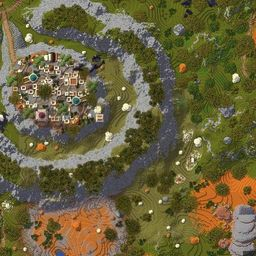
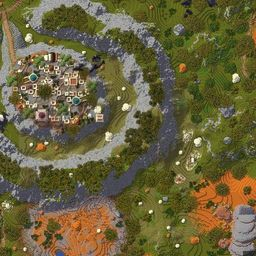
第 2 層探索地圖：被蓋掉的區塊有 152 個改用站長 pre_breches 資料夾的真實 JourneyMap 圖
Claude-Session: https://claude.ai/code/session_01TCxb7TWhtNUuHK8FFaNG7L

diff --git a/changelog.js b/changelog.js
@@ -18,7 +18,7 @@ window.SAO_CHANGELOG=[
   "第 3 層 9 位 NPC 的位置改用站長截圖推算（煉金術士、符文工匠、工具商人等，新增保險箱、拍賣場和 3 位沒有名牌的工匠），第 2 層符文項鍊工匠移到凱順聖所",
   "第 2 層商店賣的神祕護身符（等級 14、深灰色鏈子）和第 1 層的（等級 10、暗紅色鏈子）圖示不同，分成兩件；精通卷軸、重置卷軸的說明改成遊戲中文（精通＝重置技能點數、重置＝重置屬性點數）",
   "名稱裡有第 1 層首領或地下城的裝備（Kazor、墮落者、死神），取得樓層算第 1 層，不再出現在第 2、3 層",
-  "第 2 層探索地圖：烏爾巴斯東南方一塊被別的世界蓋掉的地形（茂密森林和黑色區域），改成 wiki 第 2 層地圖的同一塊",
+  "第 2 層探索地圖：烏爾巴斯東南方一塊被別的世界蓋掉的地形（茂密森林和黑色區域），改回第 2 層的地形（約三分之一用站長另一個資料夾裡的探索地圖，其餘暫用 wiki 地圖）",
   "打包探索地圖認得網站還沒有地圖的新樓層：勾選後一起上傳，網站自動判斷是第幾層（每個樓層第一次上傳不用再等站長先跑）；已知樓層的資料夾就算和網站地圖重疊很少也收得進來",
   "稀有度改成遊戲的分級，顏色和 wiki 一致：普通（綠）、稀有（藍）、史詩（紫）、傳說（金）、神話（紅，遊戲提示框的顏色）；原本的「傳說+」「傳說++」「SS」在遊戲裡都是神話，篩選也合併成「神話」",
   "小修正：地點的「名稱」說明不再和官方中文標題矛盾；探索地圖說明改寫成「合併過 N 次上傳（幾位）」；裝備的效果篩選框加寬"]],

diff --git a/jmmeta.js b/jmmeta.js
@@ -2636,7 +2636,7 @@ window.SAO_JM = {
   "fix": [
    {
     "date": "2026-11-12",
-    "what": "(0,-1) 那張圖裡混進來的非第 2 層地形（烏爾巴斯東南方的森林和黑色區域，439 個區塊）換成 wiki 第 2 層地圖的同一塊（站長有探索過，JourneyMap 的原圖被覆寫）"
+    "what": "(0,-1) 那張圖被別的世界蓋掉的 439 個區塊：152 個換成站長 pre_breches 資料夾裡同位置的 JourneyMap 圖（11/9 21:56～22:02，和 wiki 第 2 層地圖一致），其餘 287 個暫用 wiki 第 2 層地圖"
    }
   ]
  },

diff --git a/CLAUDE.md b/CLAUDE.md
@@ -34,7 +34,7 @@
 | `index.html` | build 產生的檔案，不要直接改。build 會在每個本地 `<script src="x.js">` 後面加 `?v=內容雜湊`（2026-11-02：GitHub Pages 讓瀏覽器快取 10 分鐘，手機曾拿到新頁面配舊 `npcs.js`，篩選顯示錯的類別名稱）。Apps Script／Actions 直接改的資料檔（reports.js、jmmeta.js、formcfg.js）不會更新雜湊，和以前一樣最多 10 分鐘後更新 |
 | `data.js` | 第 1 層：`window.SAO` = MAP、STATUS、ZONES、M（怪物）、ITEMS、EXTRA、TOWNS、SPOTS、QUESTS |
 | `data23.js` | 第 2、3 層：`SAO23_ITEMS`、`SAO23.floors[2/3]`（第 3 層的 `floor3.jpg` 是本站畫的空白格線底圖，上面疊探索地圖）。**2026-11-11**：兩層 `status:"new"`（11/9 開放，官網新聞〈Floors 2 and 3 are open!〉 https://saominecraft.com/us/news/paliers-2-et-3-ouverts ；`soonNote`／樓層資訊列寫「資料還沒有遊戲畫面確認」），`lv` 改成新聞的怪物等級 11–15／15–19；第 2 層 20 個支線（wiki 11/7 刪表，使用者選 B）連同只為支線存在的城鎮（Havca、SamaelTVS、Typpe）和撿取點搬到沒在用的 `F2_SIDE_WIKI_OLD`，遊戲確認後可以放回；`// BEGIN build_mobphotos` 區塊是 `tools/build_mobphotos.py` 產生的「只有官網新聞有」的怪物（`addNews`，接在 wiki 怪物後面、id 不變，`news:1`，類型／行為未知＝`Unknown`／`U`，腐化版沿用本體）；鷹身女妖 1% 掉落改遊戲名 Feather of the Little Flame／Drop（遊戲才有的裝備，圖示從 11/5 拍賣場還原），第 3 層 10 隻補 Corrupted Fragment 100%（遊戲物品說明）；第 2、3 層資料整理報告在 scratchpad `f23/report.md`。**第 2 層地點**（使用者 2026-11-11「二層的傳送點、怪物區先參考互動地圖」）：參考地圖 Beta 資料（scratchpad `f23/ref_f23.json`，座標是它自己的 map-local，還沒對過遊戲）：城鎮 Urbus／Kaelor／Marome／Taran（原本暫稱西部／東部／西南聚落，`old`），參考地圖沒有傳送選單，城鎮標「傳送未知」；9 個怪物區和 3 個地下城入口用 `zone`（字串或陣列），`mons` 在檔尾依區域自動填（含新聞怪物）；地標 4 個。**第 2、3 層 NPC 和首領重生點、第 3 層地點**（使用者 2026-11-11「第2、3層從舊參考地圖補」）：`tools/build_npcs.py` 的 `load23` 讀 maps_floor2.js／maps_floor3.js 全部 NPC（src `ref23`，面板註明 Beta、座標沒對過遊戲；`refaire`→other、`runeCraftsmen`＝符文工匠，歸「其他 NPC」組），npcs.js 有 `2:`、`3:`；`F2.BOSS_SPAWNS`／`F3.BOSS_SPAWNS`（參考地圖名→本站怪物名：Morveth＝Morverth、Alpha of the Woods＝Woodland Alpha、Leader of the Bandits＝Bandit Chief、King of the Cave＝Cave King、Samurai Orc Boss＝Orc Samurai Boss…），`SPAWNS(f)` 每層都讀；第 3 層 26 個 biome 標籤進 `F3.spots`：名稱就是 wiki 區域名（只差 Camp/Camps、字序）的 11 個是怪物區（`zone`），Dungeon The Mysterious Islands 是地下城，其餘地標；Zumfut／Zumfut Mine、Terrialys Well／Pit 名稱不同沒連（note 寫明）；第 3 層沒有框線。**第 3 層地圖** `floor3.jpg` 是本站畫的空白底圖（深色圓、每 100 格格線；size 1700、x0 -253、z0 -79＝參考地圖 map-local 的中心 597,771 半徑 850）：wiki 沒有第 3 層地圖，參考地圖 repo 的 floor3.png 沒有授權，不用。aincradmap.app（Frankiie2121）的第 2、3 層就是 DelayedCode Beta 換介面（11/11 查：第 2 層 20 個地點座標完全相同；沒有授權條款，robots 禁 /api/），不當資料來源。地下城分頁現在也列樓層首領塔（排序：活動 → 首領塔 `isTowerSp`（zh 含「樓層首領」，卡片 `.dgtower`＋「樓層首領塔」標籤）→ 其他），萬聖節活動地下城只在第 1 層列；切樓層時清單沒有目前面板的東西就換成第一個、清單是空的就關掉面板。**第 2 層地圖**：`floor2.jpg` 的 12 個灰色圓點用 OpenCV inpaint 補掉、半徑 1017 外塗黑（原檔 scratchpad `f23/floor2_orig.jpg`），`clip:{c:500,r:484}`；9 個怪物區的 `area` 是本站依 wiki 地圖地形自己描的（不是參考地圖的多邊形）。**滾輪縮放**（使用者 2026-11-11「有延遲感」）：wheel 事件累加、每個動畫畫格只縮放一次（`wheelF`，依 deltaY 連續換算，觸控板也順），縮放中標籤大小變數（`--inv`／`--tk`／`--areaw`）只在倍率變 12% 以上或停下 120 ms 後才更新（`applyVars`）。**`.world` 不能加 `will-change:transform`**（11/11 加過：瀏覽器把整張地圖點陣化後放大，放大時框線、文字、底圖全糊，使用者回報後拿掉）。**讀取速度**（使用者 2026-11-11「讀取非常慢」，1.5 Mbps 手機模擬：地圖 17.7 秒才出現，字型 928 KB、底圖 1.35 MB、怪物頭像 312 KB、新版檢查又抓一次整頁）：`#mapLo`＝`map.lo` 的 512px 預覽圖（`floor1_s.jpg`／`floor2_s.jpg`／`floor3_s.jpg`，約 47 KB）先顯示，`mapImg` 載完才藏；`floor1/2.jpg` 改漸進式 JPEG q85；`img/mobs/*.png` 改 256 色 PNG（`build_mobphotos.py` 的 `png8`）；新版檢查 `updCheck` 只抓頁首 2 KB（Range）、開頁 20 秒後才檢查；**不載入中文網路字型**（使用者選 A：字型清單用 PingFang TC／Noto Sans CJK TC／Microsoft JhengHei 等系統字型，Chakra Petch／JetBrains Mono 照舊）→ 上線後同條件：預覽 4.4 秒、清楚地圖 9.7 秒 |
-| （第 2、3 層的 JourneyMap，2026-11-12） | 站長本機 Claude 列了 `journeymap/data/mp`（`tools/jm_floors_local.md`／`jm_floors_local2.md`，資料 scratchpad `f23/jm_folders.json`、`f23/jm/jm_f23/`，inbox 已刪）：**每一層是不同的伺服器資料夾**（第 1 層 `Triggers_815bd3d6…`、第 2 層 `Triggers_ba411067…/overworld`、第 3 層 `Triggers_95a78a58…/overworld`；別的玩家的 UUID 可能不同，所以一律靠顏色比對認樓層）；以下用途是**從資料夾名稱和圖片推測、站長還沒確認**：沒有 UUID 的 `Triggers/overworld` 像大廳（灰色平台、放射狀結構），不收；`…_djtaurus`（2 次進場，只有洞穴層）可能是第 2 層的牛人地下城，網站還不認得；`gorge_rugiboeuf`、`pre_breches` 在第 2 層的座標上、地形大致相同但**不是原樣**（峽谷的競技場中間沒有沙地圓盤），像是首領戰的副本 → 第 2、3 層只收 `overworld` 資料夾；`repaire_velindra`、`chambre_ambre` 只有洞穴層，不收；**更正（2026-11-12 使用者「二層探索地圖有問題」）**：(0,-1) 那張圖在第 2 層資料夾裡**本身就被別的世界的畫面蓋掉一塊**（烏爾巴斯東南方的茂密森林＋黑色虛空，和 wiki 第 2 層地圖完全不同；第 3 層資料夾的 (0,-1) 是同一塊的一部分，一模一樣），站長說那一帶有在第 2 層探索過＝原本的真地形被 JourneyMap 覆寫、沒有正確的版本可還原。`tiles/f2jm` 的這 439 個區塊（scratchpad `f2mask.npy`：和 wiki 地圖逐區塊比色＋補洞，`f2cmp.png`／`f2mask.png`）**換成 wiki 第 2 層地圖的同一塊（原色、不變暗），仍算已探索**（使用者「不應該是未探索」；先做的「改回未探索」被否決）：wiki 圖和網站框架用 SIFT 對過（1 px≈1 格），接縫對得上；jmmeta `"2".fix` 記錄，探索比例維持 54%。之後有人上傳那一帶的真 JourneyMap 圖會蓋過去（已探索區塊照常比色，wiki 那塊的顏色和 JourneyMap 相近，應該對得上，沒實測）。**座標**：第 2 層 JourneyMap 用 SIFT 對 wiki 圖 2,030 點、殘差 0.18 px：網站原本的 `size 2124、x0=z0=-1062` 完全正確；參考互動地圖的第 2 層座標＝遊戲座標（Taurus 塔中心 −160.6, 795.8 對它的 −160, 795）；第 3 層它的 floor3.png 對 JourneyMap 只差 X 2 格（沒有把點位移 2 格：不知道它的點是遊戲裡讀的還是從圖上量的）。只驗證了座標系統和 Taurus 塔，個別 NPC／首領點沒驗證，說明文字照這樣寫。 |
+| （第 2、3 層的 JourneyMap，2026-11-12） | 站長本機 Claude 列了 `journeymap/data/mp`（`tools/jm_floors_local.md`／`jm_floors_local2.md`，資料 scratchpad `f23/jm_folders.json`、`f23/jm/jm_f23/`，inbox 已刪）：**每一層是不同的伺服器資料夾**（第 1 層 `Triggers_815bd3d6…`、第 2 層 `Triggers_ba411067…/overworld`、第 3 層 `Triggers_95a78a58…/overworld`；別的玩家的 UUID 可能不同，所以一律靠顏色比對認樓層）；以下用途是**從資料夾名稱和圖片推測、站長還沒確認**：沒有 UUID 的 `Triggers/overworld` 像大廳（灰色平台、放射狀結構），不收；`…_djtaurus`（2 次進場，只有洞穴層）可能是第 2 層的牛人地下城，網站還不認得；`gorge_rugiboeuf`、`pre_breches` 在第 2 層的座標上、地形大致相同但**不是原樣**（峽谷的競技場中間沒有沙地圓盤），像是首領戰的副本 → 第 2、3 層只收 `overworld` 資料夾；`repaire_velindra`、`chambre_ambre` 只有洞穴層，不收；**更正（2026-11-12 使用者「二層探索地圖有問題」）**：(0,-1) 那張圖在第 2 層資料夾裡**本身就被別的世界的畫面蓋掉一塊**（烏爾巴斯東南方的茂密森林＋黑色虛空，和 wiki 第 2 層地圖完全不同；第 3 層資料夾的 (0,-1) 是同一塊的一部分，一模一樣），站長說那一帶有在第 2 層探索過＝原本的真地形被 JourneyMap 覆寫、沒有正確的版本可還原。`tiles/f2jm` 的這 439 個區塊（scratchpad `f2mask.npy`：和 wiki 地圖逐區塊比色＋補洞，`f2cmp.png`／`f2mask.png`）**152 個換成站長 `pre_breches` 資料夾（Triggers_7ee58910，11/9 21:56～22:02）同位置的 JourneyMap 圖**（和 wiki 逐區塊差異中位數 5＝真的第 2 層地形；使用者「有探索這個區塊，就應該要有探索地圖」），**其餘 287 個暫用 wiki 第 2 層地圖（原色）**，都算已探索（使用者「不應該是未探索」）。站長電腦的資料夾清單（`f23/jm_folders.json`）裡有 (0,-1) 這格的第 2 層地面圖只有 ba411067（被蓋掉）和 pre_breches；被蓋掉的內容是以原點為中心的島（破碎的地下世界的 island_player 等資料夾都在 (-1..0,-1..0)，推測是從那裡寫錯資料夾）：wiki 圖和網站框架用 SIFT 對過（1 px≈1 格），接縫對得上；jmmeta `"2".fix` 記錄，探索比例維持 54%。之後有人上傳那一帶的真 JourneyMap 圖會蓋過去（已探索區塊照常比色，wiki 那塊的顏色和 JourneyMap 相近，應該對得上，沒實測）。**座標**：第 2 層 JourneyMap 用 SIFT 對 wiki 圖 2,030 點、殘差 0.18 px：網站原本的 `size 2124、x0=z0=-1062` 完全正確；參考互動地圖的第 2 層座標＝遊戲座標（Taurus 塔中心 −160.6, 795.8 對它的 −160, 795）；第 3 層它的 floor3.png 對 JourneyMap 只差 X 2 格（沒有把點位移 2 格：不知道它的點是遊戲裡讀的還是從圖上量的）。只驗證了座標系統和 Taurus 塔，個別 NPC／首領點沒驗證，說明文字照這樣寫。 |
 | （2026-11-08～11-12 截圖 in24，373 張） | 站長本機 Claude 推到 `inbox/`（2fda9f2～f27f40e），轉存 scratchpad `in24/`，轉錄 `in24_tA～tC.json/.md`、網站畫面回饋 `in24_snips.md`，從分支刪掉。**使用者 2026-11-12 決定**：①腐化碎片長得不一樣＝三件不同物品（`data23.js` 的 `Corrupted Fragment`／`(2)`／`(3)`＝綠／藍／紫框，`fr` 都是 null，哪一件是官網 2380 不知道；微腐化魔法書要 32／16／8，配方列順序推測對應顏色）；②同名物品依**圖示**判斷（第 2 層商店的神祕護身符是深灰鏈子，第 1 層是暗紅 → `Occult Amulet (2)`，SAO23_ITEMS 的 EQX）；③「3A」第 2、3 層 NPC 位置用截圖推算（F3 除錯畫面的玩家座標＋準星打到的方塊，NPC 在兩者之間，約 ±2 格）：`build_npcs.py` 的 `CALC23`／`NEW23`，`SAO_NPC_CALC` 的 key 是「樓層\|名稱」、`m:"f3"`，`npcCalcNote` 依樓層找；`NPC_NOTE` 只用在第 1 層（第 3 層也有 Vault、Auction House）；④「4A」名稱有 Kazor／Déchu／Faucheuse／Reaper／Fallen、又沒有其他取得資料的裝備，`objFloors` 算第 1 層（之後再檢查架構）。**配方分樓層**：`recipes.js` 的 key 是第 1 層 NPC 名或「3\|Alchemist」（第 3 層也有 Alchemist），網站 `rKey`／`rSplit`／`RCP(f,name)`；`build_recipes.py` 的 `SHOTS23`（(樓層, npcs.js 名稱) → 列）／`OID23`／`LV23`；配方分頁只列目前這一層（`RCVF`、`rcFill` 換樓層時重建分類和 NPC 下拉）；材料沒有英文名的直接寫遊戲中文名，`en2go` 也索引 zhnames 的 `zh`（中文名對得到官網 id 就有圖示和連結）。第 3 層 NPC 對照：神器鐵匠（視窗 P3 - Craft Artefact de Sylnovar）＝參考地圖 Sylnovar Accessories Blacksmith（差 19 格，推測）；3 位沒有名牌的工匠用視窗標題當名稱；第 2 層符文項鍊（視窗「2 -」）掛在 Manufacturer of the Runic Necklace（參考地圖差 39 格，推測）；骷髏頭骨（第 2 層 30 分鐘版）的材料順序看不出來，沒收；死靈法師魔杖只看到「製作地點」，沒收配方。`zhnames.js` 加約 124 筆（`src:"shot24"`）、`mobsByName` 50、`places`（公牛之湖、凱順聖所、埃蘭之地、烏爾巴斯、瑪羅姆、阿斯特里歐斯的巢穴）、F3 NPC 中文和 `npcEn`；`sets.js` 加 11 套（中文 `zh:1`）和品質強化劑 III／品質藥水 IV～VI 效果（`effZh` 認「applies 15min of cooldown」）；`gamestats.js` 加 13 件（1547／1549／1551 只改稀有度 EPIC）；`gameinfo.js` 精通卷軸＝重置技能點數、重置卷軸＝重置屬性點數（11/4 英文提示寫 attribute，照較新的中文）；`data23.js` 尾端 `GAME_DROPS`（遊戲取得途徑的掉落，蓋過新聞／wiki，怪物 note 註明；Winnie 的熊脂拿掉＝遊戲只列森林熊）；`mainq.js` 第 2 層 6 個、第 3 層 1 個主線（標題是遊戲中文名，每層自己的編號，`tip` 寫只看到這一步）；`f2boss` 加 `dg`＝阿斯特里歐斯的巢穴（是不是這座塔還不確定，note 寫明；`dg.lootNote`、`dg.key` 沒有做法時面板顯示鑰匙名）。還沒做：第 2 層玄武岩三角洲、帕薩艾爾山（網站沒有地點）、Spider Loot Repreneur 的位置（看不出是哪一位收購商）、腐化碎片圖示、拍賣場價格（不放）。 |
 | `bosses.js` | 世界首領 Galiath、獨特怪物 Seraphel、wiki 列的其他首領 |
 | `img/bosses/` | 世界王頁的首領模型圖（2026-11-06，使用者選 A）：官網世界首領頁 2026-11-05 改版成「Bestiary」，「See up close」視窗有 `/da/bestiary/<id>-34.webp`（3/4）和 `-face.webp`（正面），透明背景、高 1024px，伺服器時間台灣 11/5 15:01 上傳。裁到模型範圍、縮成高 520px 的 webp，`bosses.js` 的 `img`／`imgFront`，`bFig` 畫圖框和「3/4／正面」切換；原本的徽章插畫 wb_galiath.jpg／wb_seraphel.jpg 已刪。**只有這兩隻**：用 Playwright 跑過官網 sitemap 全部 23 頁、點開視窗，並用本站 136 個怪物名稱試 `/da/bestiary/<名稱>-34.webp`，都沒有其他怪物；官網的 /bestiary、/monsters、/codex 是 404，/map 暫停（「not available for now」），/aincrad-academy 還沒有課程。官網 Bestiary 的文字資料和 10/30 抓的一樣（輪盤仍是舊的 7 項，本站用遊戲排隊告示的 10 項） |
